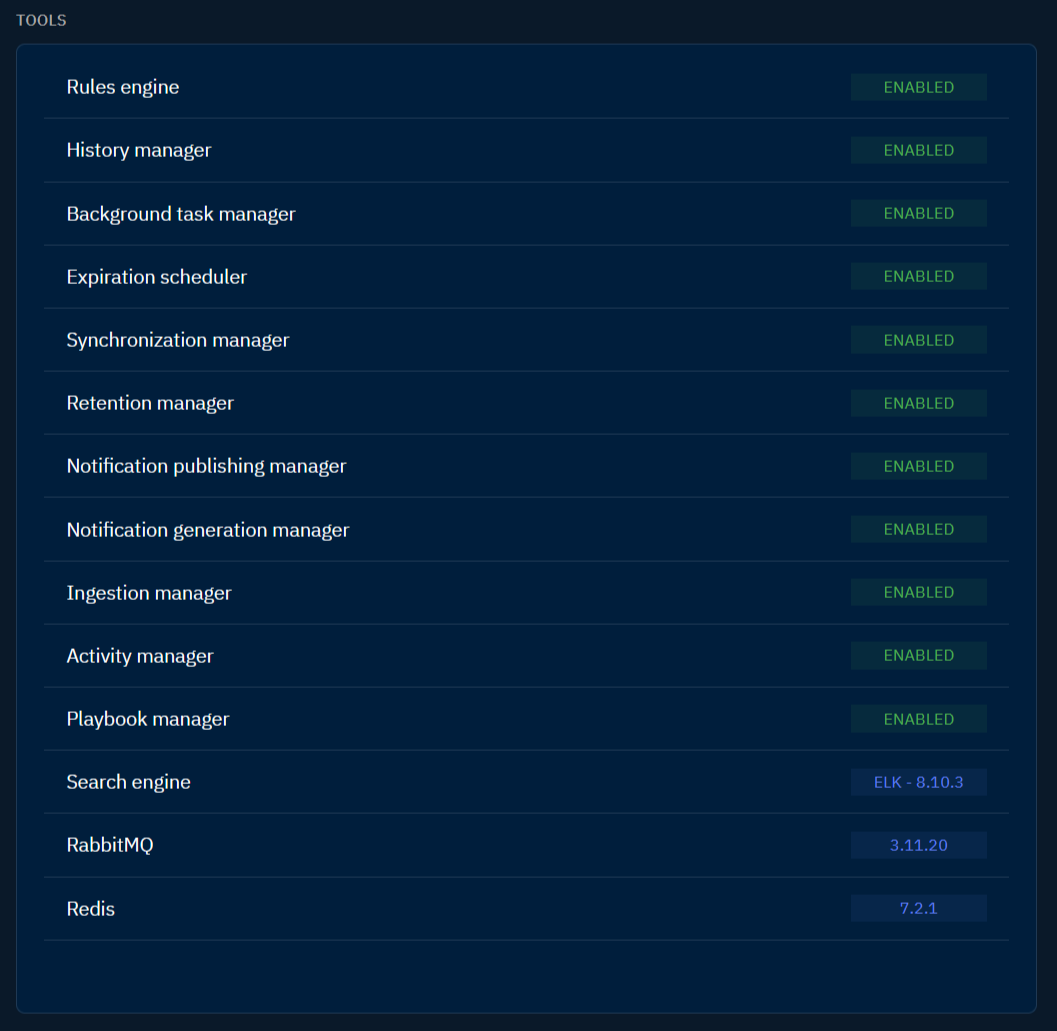
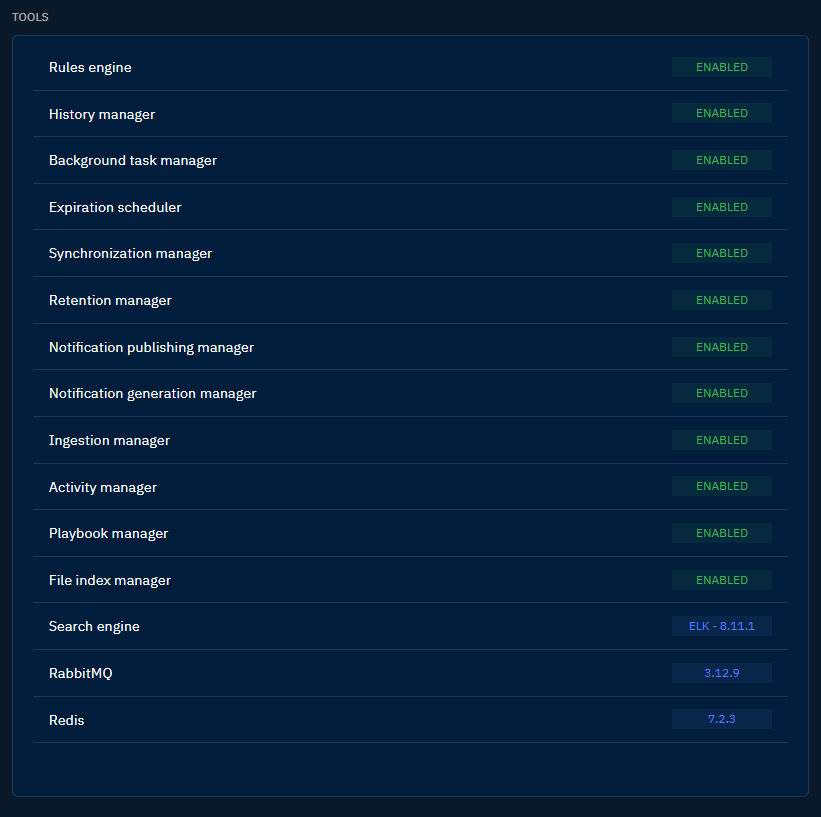
Rereading (#90)
* rereading doc

diff --git a/docs/deployment/configuration.md b/docs/deployment/configuration.md
@@ -178,46 +178,61 @@ Here are the configuration keys, for both containers (environment variables) and
 
 ### Schedules & Engines
 
-| Parameter                          | Environment variable                            | Default value                 | Description                                                                         |
-| :--------------------------------- | :---------------------------------------------- | :---------------------------- | :---------------------------------------------------------------------------------- |
-| rule_engine:enabled                | RULE_ENGINE__ENABLED                            | `true`                        | Enable/disable the rule engine                                                      |
-| rule_engine:lock_key               | RULE_ENGINE__LOCK_KEY                           | rule_engine_lock              | Lock key of the engine in Redis                                                     |
-| -                                  | -                                               | -                             | -                                                                                   |
-| history_manager:enabled            | HISTORY_MANAGER__ENABLED                        | `true`                        | Enable/disable the history manager                                                  |
-| history_manager:lock_key           | HISTORY_MANAGER__LOCK_KEY                       | history_manager_lock          | Lock key for the manager in Redis                                                   |
-| -                                  | -                                               | -                             | -                                                                                   |
-| task_scheduler:enabled             | TASK_SCHEDULER__ENABLED                         | `true`                        | Enable/disable the task scheduler                                                   |
-| task_scheduler:lock_key            | TASK_SCHEDULER__LOCK_KEY                        | task_manager_lock             | Lock key for the scheduler in Redis                                                 |
-| task_scheduler:interval            | TASK_SCHEDULER__INTERVAL                        | 10000                         | Interval to check new task to do (in ms)                                            |
-| -                                  | -                                               | -                             | -                                                                                   |
-| sync_manager:enabled               | SYNC_MANAGER__ENABLED                           | `true`                        | Enable/disable the sync manager                                                     |
-| sync_manager:lock_key              | SYNC_MANAGER__LOCK_KEY                          | sync_manager_lock             | Lock key for the manager in Redis                                                   |
-| sync_manager:interval              | SYNC_MANAGER__INTERVAL                          | 10000                         | Interval to check new sync feeds to consume (in ms)                                 |
-| -                                  | -                                               | -                             | -                                                                                   |
-| expiration_scheduler:enabled       | EXPIRATION_SCHEDULER__ENABLED                   | `true`                        | Enable/disable the scheduler                                                        |
-| expiration_scheduler:lock_key      | EXPIRATION_SCHEDULER__LOCK_KEY                  | expired_manager_lock          | Lock key for the scheduler in Redis                                                 |
-| expiration_scheduler:interval      | EXPIRATION_SCHEDULER__INTERVAL                  | 300000                        | Interval to check expired indicators (in ms)                                        |
-| -                                  | -                                               | -                             | -                                                                                   |
-| retention_manager:enabled          | RETENTION_MANAGER__ENABLED                      | `true`                        | Enable/disable the retention manager                                                |
-| retention_manager:lock_key         | RETENTION_MANAGER__LOCK_KEY                     | retention_manager_lock        | Lock key for the manager in Redis                                                   |
-| retention_manager:interval         | RETENTION_MANAGER__INTERVAL                     | 60000                         | Interval to check items to be deleted (in ms)                                       |
-| -                                  | -                                               | -                             | -                                                                                   |
-| notification_manager:enabled       | NOTIFICATION_MANAGER__ENABLED                   | `true`                        | Enable/disable the notification manager                                             |
-| notification_manager:lock_key      | NOTIFICATION_MANAGER__LOCK_KEY                  | notification_manager_lock     | Lock key for the manager in Redis                                                   |
-| notification_manager:interval      | NOTIFICATION_MANAGER__INTERVAL                  | 10000                         | Interval to push notifications                                                      |
-| -                                  | -                                               | -                             | -                                                                                   |
-| publisher_manager:enabled          | PUBLISHER_MANAGER__ENABLED                      | `true`                        | Enable/disable the publisher manager                                                |
-| publisher_manager:lock_key         | PUBLISHER_MANAGER__LOCK_KEY                     | publisher_manager_lock        | Lock key for the manager in Redis                                                   |
-| publisher_manager:interval         | PUBLISHER_MANAGER__INTERVAL                     | 10000                         | Interval to send notifications / digests (in ms)                                    |
-| -                                  | -                                               | -                             | -                                                                                   |
-| ingestion_manager:enabled          | INGESTION_MANAGER__ENABLED                      | `true`                        | Enable/disable the ingestion manager                                                |
-| ingestion_manager:lock_key         | INGESTION_MANAGER__LOCK_KEY                     | ingestion_manager_lock        | Lock key for the manager in Redis                                                   |
-| ingestion_manager:interval         | INGESTION_MANAGER__INTERVAL                     | 300000                        | Interval to check for new data in remote feeds                                      |
-| -                                  | -                                               | -                             | -                                                                                   |
-| playbook_manager:enabled           | PLAYBOOK_MANAGER__ENABLED                       | `true`                        | Enable/disable the playbook manager                                                 |
-| playbook_manager:lock_key          | PLAYBOOK_MANAGER__LOCK_KEY                      | publisher_manager_lock        | Lock key for the manager in Redis                                                   |
-| playbook_manager:interval          | PLAYBOOK_MANAGER__INTERVAL                      | 60000                         | Interval to check new playbooks                                                     |
-
+| Parameter                                            | Environment variable                         | Default value                    | Description                                         |
+|:-----------------------------------------------------|:---------------------------------------------|:---------------------------------|:----------------------------------------------------|
+| rule_engine:enabled                                  | RULE_ENGINE__ENABLED                         | `true`                           | Enable/disable the rule engine                      |
+| rule_engine:lock_key                                 | RULE_ENGINE__LOCK_KEY                        | rule_engine_lock                 | Lock key of the engine in Redis                     |
+| -                                                    | -                                            | -                                | -                                                   |
+| history_manager:enabled                              | HISTORY_MANAGER__ENABLED                     | `true`                           | Enable/disable the history manager                  |
+| history_manager:lock_key                             | HISTORY_MANAGER__LOCK_KEY                    | history_manager_lock             | Lock key for the manager in Redis                   |
+| -                                                    | -                                            | -                                | -                                                   |
+| task_scheduler:enabled                               | TASK_SCHEDULER__ENABLED                      | `true`                           | Enable/disable the task scheduler                   |
+| task_scheduler:lock_key                              | TASK_SCHEDULER__LOCK_KEY                     | task_manager_lock                | Lock key for the scheduler in Redis                 |
+| task_scheduler:interval                              | TASK_SCHEDULER__INTERVAL                     | 10000                            | Interval to check new task to do (in ms)            |
+| -                                                    | -                                            | -                                | -                                                   |
+| sync_manager:enabled                                 | SYNC_MANAGER__ENABLED                        | `true`                           | Enable/disable the sync manager                     |
+| sync_manager:lock_key                                | SYNC_MANAGER__LOCK_KEY                       | sync_manager_lock                | Lock key for the manager in Redis                   |
+| sync_manager:interval                                | SYNC_MANAGER__INTERVAL                       | 10000                            | Interval to check new sync feeds to consume (in ms) |
+| -                                                    | -                                            | -                                | -                                                   |
+| expiration_scheduler:enabled                         | EXPIRATION_SCHEDULER__ENABLED                | `true`                           | Enable/disable the scheduler                        |
+| expiration_scheduler:lock_key                        | EXPIRATION_SCHEDULER__LOCK_KEY               | expired_manager_lock             | Lock key for the scheduler in Redis                 |
+| expiration_scheduler:interval                        | EXPIRATION_SCHEDULER__INTERVAL               | 300000                           | Interval to check expired indicators (in ms)        |
+| -                                                    | -                                            | -                                | -                                                   |
+| retention_manager:enabled                            | RETENTION_MANAGER__ENABLED                   | `true`                           | Enable/disable the retention manager                |
+| retention_manager:lock_key                           | RETENTION_MANAGER__LOCK_KEY                  | retention_manager_lock           | Lock key for the manager in Redis                   |
+| retention_manager:interval                           | RETENTION_MANAGER__INTERVAL                  | 60000                            | Interval to check items to be deleted (in ms)       |
+| -                                                    | -                                            | -                                | -                                                   |
+| notification_manager:enabled                         | NOTIFICATION_MANAGER__ENABLED                | `true`                           | Enable/disable the notification manager             |
+| notification_manager:lock_live_key                   | NOTIFICATION_MANAGER__LOCK_LIVE_KEY          | notification_live_manager_lock   | Lock live key for the manager in Redis              |
+| notification_manager:lock_digest_key                 | NOTIFICATION_MANAGER__LOCK_DIGEST_KEY        | notification_digest_manager_lock | Lock digest key for the manager in Redis            |
+| notification_manager:interval                        | NOTIFICATION_MANAGER__INTERVAL               | 10000                            | Interval to push notifications                      |
+| -                                                    | -                                            | -                                | -                                                   |
+| publisher_manager:enabled                            | PUBLISHER_MANAGER__ENABLED                   | `true`                           | Enable/disable the publisher manager                |
+| publisher_manager:lock_key                           | PUBLISHER_MANAGER__LOCK_KEY                  | publisher_manager_lock           | Lock key for the manager in Redis                   |
+| publisher_manager:interval                           | PUBLISHER_MANAGER__INTERVAL                  | 10000                            | Interval to send notifications / digests (in ms)    |
+| -                                                    | -                                            | -                                | -                                                   |
+| ingestion_manager:enabled                            | INGESTION_MANAGER__ENABLED                   | `true`                           | Enable/disable the ingestion manager                |
+| ingestion_manager:lock_key                           | INGESTION_MANAGER__LOCK_KEY                  | ingestion_manager_lock           | Lock key for the manager in Redis                   |
+| ingestion_manager:interval                           | INGESTION_MANAGER__INTERVAL                  | 300000                           | Interval to check for new data in remote feeds      |
+| -                                                    | -                                            | -                                | -                                                   |
+| playbook_manager:enabled                             | PLAYBOOK_MANAGER__ENABLED                    | `true`                           | Enable/disable the playbook manager                 |
+| playbook_manager:lock_key                            | PLAYBOOK_MANAGER__LOCK_KEY                   | publisher_manager_lock           | Lock key for the manager in Redis                   |
+| playbook_manager:interval                            | PLAYBOOK_MANAGER__INTERVAL                   | 60000                            | Interval to check new playbooks                     |
+| -                                                    | -                                            | -                                | -                                                   |
+| activity_manager:enabled                             | ACTIVITY_MANAGER__ENABLED                    | `true`                           | Enable/disable the activity manager                 |
+| activity_manager:lock_key                            | ACTIVITY_MANAGER__LOCK_KEY                   | activity_manager_lock            | Lock key for the manager in Redis                   |
+| -                                                    | -                                            | -                                | -                                                   |
+| connector_manager:enabled                            | CONNECTOR_MANAGER__ENABLED                   | `true`                           | Enable/disable the connector manager                |
+| connector_manager:lock_key                           | CONNECTOR_MANAGER__LOCK_KEY                  | connector_manager_lock           | Lock key for the manager in Redis                   |
+| connector_manager:works_day_range                    | CONNECTOR_MANAGER__WORKS_DAY_RANGE           | 7                                | Days range before considering the works as too old  |
+| connector_manager:interval                           | CONNECTOR_MANAGER__INTERVAL                  | 10000                            | Interval to check the state of the works            |
+| -                                                    | -                                            | -                                | -                                                   |
+| import_csv_built_in_connector:enabled                | IMPORT_CSV_CONNECTOR__ENABLED                | `true`                           | Enable/disable the csv import connector             |
+| import_csv_built_in_connector:validate_before_import | IMPORT_CSV_CONNECTOR__VALIDATE_BEFORE_IMPORT | `false`                          | Validates the bundle before importing               |
+| -                                                    | -                                            | -                                | -                                                   |
+| file_index_manager:enabled                           | FILE_INDEX_MANAGER__ENABLED                  | `true`                           | Enable/disable the file indexing manager            |
+| file_index_manager:stream_lock_key                   | FILE_INDEX_MANAGER__STREAM_LOCK              | file_index_manager_stream_lock   | Stream lock key for the manager in Redis            |
+| file_index_manager:interval                          | FILE_INDEX_MANAGER__INTERVAL                 | 60000                            | Interval to check for new files                     |
 !!! note "Default file"
     
     It is possible to check all default parameters implemented in the platform in the [`default.json` file](https://github.com/OpenCTI-Platform/opencti/blob/master/opencti-platform/opencti-graphql/config/default.json).

diff --git a/docs/deployment/authentication.md b/docs/deployment/authentication.md
@@ -6,22 +6,22 @@ OpenCTI supports several authentication providers. If you configure multiple str
 
 !!! note "Activation"
 
-    You need to configure/activate only that you really want to propose to your users in term of authentication
+    You need to configure/activate only the strategy that you really want to propose to your users in term of authentication
 
-The product proposes two kind of authentication strategy:
+The product proposes two kinds of authentication strategies:
 
 - Form (asking user for a user/password)
 - Buttons (click with authentication on an external system)
 
 ## Supported Strategies
 
-Under the hood we technically use the strategies provided by [PassportJS](http://www.passportjs.org/). We integrate a subset of the strategies available with passport we if you need more we can theatrically integrate all the passport strategies.
+Under the hood we technically use the strategies provided by [PassportJS](http://www.passportjs.org/). We integrate a subset of the strategies available with passport. If you need more, we can integrate other strategies.
 
 ### Local users (form)
 
-This strategy used the OpenCTI database as user management.
+This strategy uses the OpenCTI database as a user management.
 
-OpenCTI use this strategy as the default but its not the one we recommend for security reason.
+OpenCTI use this strategy as the default but its not the one we recommend for security reasons.
 
 ```json
 "local": {
@@ -108,7 +108,7 @@ For the SAML strategy to work:
 
 !!! note "Certificates"
 
-    Be careful to put the `cert` / `private_key`  key in PEM format. Indeed, a lot of systems generally export the the keys in X509 / PCKS12 formats and so you will need to convert them. 
+    Be careful to put the `cert` / `private_key`  key in PEM format. Indeed, a lot of systems generally export the keys in X509 / PCKS12 formats and so you will need to convert them. 
     Here is an example to extract PEM from PCKS12:
     ```bash
     openssl pkcs12 -in keystore.p12 -out newfile.pem -nodes
@@ -118,7 +118,7 @@ Here is an example of SAML configuration using environment variables:
 
 ```yaml
 - PROVIDERS__SAML__STRATEGY=SamlStrategy 
-- "PROVIDERS__SAML__CONFIG__LABEL=Login with SAML"
+- PROVIDERS__SAML__CONFIG__LABEL="Login with SAML"
 - PROVIDERS__SAML__CONFIG__ISSUER=mydomain
 - PROVIDERS__SAML__CONFIG__ENTRY_POINT=https://auth.mydomain.com/auth/realms/mydomain/protocol/saml
 - PROVIDERS__SAML__CONFIG__SAML_CALLBACK_URL=http://opencti.mydomain.com/auth/saml/callback
@@ -126,7 +126,7 @@ Here is an example of SAML configuration using environment variables:
 - PROVIDERS__SAML__CONFIG__LOGOUT_REMOTE=false
 ```
 
-OpenCTI support mapping SAML Roles/Groups on OpenCTI Groups. Here is an example:
+OpenCTI supports mapping SAML Roles/Groups on OpenCTI Groups. Here is an example:
 
 ```json
 "saml": {
@@ -157,8 +157,8 @@ OpenCTI support mapping SAML Roles/Groups on OpenCTI Groups. Here is an example:
 Here is an example of SAML Groups mapping configuration using environment variables:
 
 ```yaml
-- "PROVIDERS__SAML__CONFIG__GROUPS_MANAGEMENT__GROUP_ATTRIBUTES=[\"Group\"]"
-- "PROVIDERS__SAML__CONFIG__GROUPS_MANAGEMENT__GROUPS_MAPPING=[\"SAML_Group_1:OpenCTI_Group_1\", \"SAML_Group_2:OpenCTI_Group_2\", ...]"
+- PROVIDERS__SAML__CONFIG__GROUPS_MANAGEMENT__GROUP_ATTRIBUTES=[\"Group\"]
+- PROVIDERS__SAML__CONFIG__GROUPS_MANAGEMENT__GROUPS_MAPPING=[\"SAML_Group_1:OpenCTI_Group_1\", \"SAML_Group_2:OpenCTI_Group_2\", ...]
 ```
 
 ### Auth0 (button)
@@ -197,7 +197,7 @@ Here is an example of Auth0 configuration using environment variables:
 
 ### OpenID Connect (button)
 
-This strategy allows to use the [OpenID Connect Protocol](https://openid.net/connect) to handle the authentication and is based on [Node OpenID Client](https://github.com/panva/node-openid-client) that is more powerful than the passport one.
+This strategy allows to use the [OpenID Connect Protocol](https://openid.net/connect) to handle the authentication and is based on [Node OpenID Client](https://github.com/panva/node-openid-client) which is more powerful than the passport one.
 
 ```json
 "oic": {
@@ -218,11 +218,11 @@ Here is an example of OpenID configuration using environment variables:
 
 ```yaml
 - PROVIDERS__OPENID__STRATEGY=OpenIDConnectStrategy 
-- "PROVIDERS__OPENID__CONFIG__LABEL=Login with OpenID"
+- PROVIDERS__OPENID__CONFIG__LABEL="Login with OpenID"
 - PROVIDERS__OPENID__CONFIG__ISSUER=https://auth.mydomain.com/auth/realms/xxxx
 - PROVIDERS__OPENID__CONFIG__CLIENT_ID=XXXXXXXXXXXXXXXXXX
 - PROVIDERS__OPENID__CONFIG__CLIENT_SECRET=XXXXXXXXXXXXXXXXXX
-- "PROVIDERS__OPENID__CONFIG__REDIRECT_URIS=[\"https://opencti.mydomain.com/auth/oic/callback\"]"
+- PROVIDERS__OPENID__CONFIG__REDIRECT_URIS=[\"https://opencti.mydomain.com/auth/oic/callback\"]
 - PROVIDERS__OPENID__CONFIG__LOGOUT_REMOTE=false
 ```
 
@@ -251,22 +251,22 @@ OpenCTI support mapping OpenID Claims on OpenCTI Groups (everything is tied to a
 Here is an example of OpenID Groups mapping configuration using environment variables:
 
 ```yaml
-- "PROVIDERS__OPENID__CONFIG__GROUPS_MANAGEMENT__GROUPS_SCOPE=groups"
-- "PROVIDERS__OPENID__CONFIG__GROUPS_MANAGEMENT__GROUPS_PATH=[\"groups\", \"realm_access.groups\", \"resource_access.account.groups\"]"
-- "PROVIDERS__OPENID__CONFIG__GROUPS_MANAGEMENT__GROUPS_MAPPING=[\"OpenID_Group_1:OpenCTI_Group_1\", \"OpenID_Group_2:OpenCTI_Group_2\", ...]"
+- PROVIDERS__OPENID__CONFIG__GROUPS_MANAGEMENT__GROUPS_SCOPE="groups"
+- PROVIDERS__OPENID__CONFIG__GROUPS_MANAGEMENT__GROUPS_PATH=[\"groups\", \"realm_access.groups\", \"resource_access.account.groups\"]
+- PROVIDERS__OPENID__CONFIG__GROUPS_MANAGEMENT__GROUPS_MAPPING=[\"OpenID_Group_1:OpenCTI_Group_1\", \"OpenID_Group_2:OpenCTI_Group_2\", ...]
 ```
 
 By default, the claims are mapped based on the content of the JWT `access_token`. If you want to map claims which are in other JWT (such as `id_token`), you can define the following environment variables:
 
 ```yaml
-- "PROVIDERS__OPENID__CONFIG__GROUPS_MANAGEMENT__TOKEN_REFERENCE=id_token"
-- "PROVIDERS__OPENID__CONFIG__ORGANISATIONS_MANAGEMENT__TOKEN_REFERENCE=id_token"
+- PROVIDERS__OPENID__CONFIG__GROUPS_MANAGEMENT__TOKEN_REFERENCE="id_token"
+- PROVIDERS__OPENID__CONFIG__ORGANISATIONS_MANAGEMENT__TOKEN_REFERENCE="id_token"
 ```
 
 Alternatively, you can request OpenCTI to use claims from the `userinfo` endpoint instead of a JWT.
 ```yaml
-- "PROVIDERS__OPENID__CONFIG__GROUPS_MANAGEMENT__READ_USERINFO=true"
-- "PROVIDERS__OPENID__CONFIG__ORGANISATIONS_MANAGEMENT__READ_USERINFO=true"
+- PROVIDERS__OPENID__CONFIG__GROUPS_MANAGEMENT__READ_USERINFO=true
+- PROVIDERS__OPENID__CONFIG__ORGANISATIONS_MANAGEMENT__READ_USERINFO=true
 ```
 
 ### Facebook (button)

diff --git a/docs/deployment/integrations.md b/docs/deployment/integrations.md
@@ -6,7 +6,7 @@ OpenCTI supports multiple ways to integrate with other systems which do not have
 
 !!! note "Connectors list"
     
-    If you are looking to the list of OpenCTI connectors or native integration, please check the [OpenCTI Ecosystem](https://filigran.notion.site/OpenCTI-Ecosystem-868329e9fb734fca89692b2ed6087e76).
+    If you are looking for the list of OpenCTI connectors or native integration, please check the [OpenCTI Ecosystem](https://filigran.notion.site/OpenCTI-Ecosystem-868329e9fb734fca89692b2ed6087e76).
 
 ## Native feeds and streams
 
@@ -16,7 +16,7 @@ To ease integrations with other products, OpenCTI has built-in capabilities to d
 
 It is possible to create as many CSV feeds as needed, based on filters and accessible in HTTP. CSV feeds are available in Data > Data sharing > Feeds (CSV).
 
-When creating a CSV feed, you need to select one or multiple types of entity to make available. For all columns available in the CSV, you've to select which field will be used for each type of entity:
+When creating a CSV feed, you need to select one or multiple types of entities to make available. Then, you must assign a field (of an entity type) to each column in the CSV:
 
 ![CSV Feeds](assets/csv.png)
 
@@ -26,9 +26,9 @@ When creating a CSV feed, you need to select one or multiple types of entity to 
 
 ### TAXII collections
 
-Most of the moden cybersecurity systems such as SIEMs, EDRs, XDRs and even firewalls supports the [TAXII protocol](https://oasis-open.github.io/cti-documentation/taxii/intro.html) which is basically a paginated HTTP STIX feed. OpenCTI implements a [TAXII 2.1](https://docs.oasis-open.org/cti/taxii/v2.1/os/taxii-v2.1-os.html) server with the ability to create as many TAXII collections as needed in Data > Data sharing > TAXII Collections?
+Most of the modern cybersecurity systems such as SIEMs, EDRs, XDRs and even firewalls supports the [TAXII protocol](https://oasis-open.github.io/cti-documentation/taxii/intro.html) which is basically a paginated HTTP STIX feed. OpenCTI implements a [TAXII 2.1](https://docs.oasis-open.org/cti/taxii/v2.1/os/taxii-v2.1-os.html) server with the ability to create as many TAXII collections as needed in Data > Data sharing > TAXII Collections.
 
-TAXII collections are a sub-selection of the knowledge available in the platform and relie on filters. For instance, it is possible to create TAXII collections for pieces of malware with a given label, for indicators with a score greater than *n*, etc.
+TAXII collections are a sub-selection of the knowledge available in the platform and rely on filters. For instance, it is possible to create TAXII collections for pieces of malware with a given label, for indicators with a score greater than *n*, etc.
 
 ![TAXII Feeds](assets/taxii.png)
 
@@ -45,7 +45,7 @@ Live streams are available in Data > Data sharing > Live streams. As TAXII colle
 
 ![Streams](assets/streams.png)
 
-Streams implement the [HTTP SSE (Server-sent events)](https://en.wikipedia.org/wiki/Server-sent_events) protocol and give applications to consume a real time pure STIX 2.1 stream. Stream connectors in the [OpenCTI Ecosystem](https://filigran.notion.site/OpenCTI-Ecosystem-868329e9fb734fca89692b2ed6087e76) are using live streams to consume data and *do* something such as create / update / delete information in SIEMs, XDRs, etc.
+Streams implement the [HTTP SSE (Server-sent events)](https://en.wikipedia.org/wiki/Server-sent_events) protocol and give applications the possibility to consume a real time pure STIX 2.1 stream. Stream connectors in the [OpenCTI Ecosystem](https://filigran.notion.site/OpenCTI-Ecosystem-868329e9fb734fca89692b2ed6087e76) are using live streams to consume data and *do* something such as create / update / delete information in SIEMs, XDRs, etc.
 
 ### Authentication
 

diff --git a/docs/deployment/connectors.md b/docs/deployment/connectors.md
@@ -6,7 +6,7 @@
     
     You are looking for the available connectors? The list is in the [OpenCTI Ecosystem](https://filigran.notion.site/OpenCTI-Ecosystem-868329e9fb734fca89692b2ed6087e76).
 
-Connectors are the cornerstone of the OpenCTI platform and allow organizations to easily ingest, enrich or export data in the platform. According to their functionality and use case, they are categorized in following classes.
+Connectors are the cornerstone of the OpenCTI platform and allow organizations to easily ingest, enrich or export data in the platform. According to their functionality and use case, they are categorized in the following classes.
 
 ![Connectors](assets/connectors.png)
 
@@ -33,13 +33,13 @@ Information stored in OpenCTI can be extracted into different file formats like 
 
 ## Connector configuration
 
-All connectors have to be able to access to the OpenCTI API. To allow this connection, they have 2 mandatory configuration parameters, the `OPENCTI_URL` and the `OPENCTI_TOKEN`. In addition of these 2 parameters, connectors have other mandatory parameters that need to be set in order to get them work.
+All connectors have to be able to access the OpenCTI API. To allow this connection, they have 2 mandatory configuration parameters, the `OPENCTI_URL` and the `OPENCTI_TOKEN`. In addition to these 2 parameters, connectors have other mandatory parameters that need to be set in order to get them work.
 
 !!! warning "Connectors tokens"
     
     Be careful, we strongly recommend to use a dedicated token for each connector running in the platform. So you have to [**create a specific user for each of them**](../administration/users.md).
 
-    Also, if all connectors users can run in with a user belonging to the `Connectors` group (with the `Connector` role), the `Internal Export Files` should be run with a user who is Administrator (with bypass capability) because they imperstonate the user requesting the export to avoid data leak.
+    Also, if all connectors users can run in with a user belonging to the `Connectors` group (with the `Connector` role), the `Internal Export Files` should be run with a user who is Administrator (with bypass capability) because they impersonate the user requesting the export to avoid data leak.
 
     | Type                 | Required role       | Used permissions                                                                                  
     | :------------------- | :------------------ | :----------------------------------------------------- |

diff --git a/docs/administration/audit/overview.md b/docs/administration/audit/overview.md
@@ -13,11 +13,11 @@ Enabling activity helps your security, auditing, and compliance entities monitor
 
 ## Categories
 
-The activity group 3 different concepts that need to be explains.
+The activity groups 3 different concepts that need to be explained.
 
 ### Basic knowledge
 
-The basic knowledge refers to all stix data knowledge inside OpenCTI. Every create/update/delete actions on that knowledge is accessible through the history.
+The basic knowledge refers to all STIX data knowledge inside OpenCTI. Every create/update/delete actions on that knowledge is accessible through the history.
 That basic activity is handled by the history manager and can be also found directly on each entity.
 
 ### Extended knowledge
@@ -28,7 +28,7 @@ As this kind of tracking is expensive, the tracking will only be done for specif
 ### Audit knowledge
 
 Audit is focusing on user administration or security actions.
-Audit will produces **console/logs** files along with user interface elements.
+Audit will produce **console/logs** files along with user interface elements.
 
 ```json
 {
@@ -50,7 +50,7 @@ Audit will produces **console/logs** files along with user interface elements.
 
 ## Architecture
 
-OpenCTI use different mechanisms to be able to publish actions (audit) or data modification (history)
+OpenCTI uses different mechanisms to be able to publish actions (audit) or data modification (history)
 
 <iframe style="border: 1px solid rgba(0, 0, 0, 0.1);" width="800" height="450" src="https://www.figma.com/embed?embed_host=share&url=https://www.figma.com/file/65JHbbWWKftqLGrQJ0Xhml/Notifications-architecture?type=whiteboard&node-id=0%3A1&t=Q9GJ4psB6cAdQ3uR-1" allowfullscreen></iframe>
 

diff --git a/docs/administration/enterprise.md b/docs/administration/enterprise.md
@@ -10,7 +10,7 @@ The OpenCTI Enterprise Edition is licensed under the OpenCTI
 Non-Commercial License (the “Non-Commercial License”).
 The source files in this repository have a header indicating which license they are under. If no such header is provided, this means that the file is belonging to the Community Edition under the Apache License, Version 2.0.
 
-We write a complete article to explain the enterprise edition, [feel free to read it to have more information](https://blog.filigran.io/progressive-rollout-of-the-opencti-enterprise-edition-why-what-and-how-1189e9d5603c)
+We wrote a complete article to explain the enterprise edition, [feel free to read it to have more information](https://blog.filigran.io/progressive-rollout-of-the-opencti-enterprise-edition-why-what-and-how-1189e9d5603c)
 
 ## EE Activation
 Enterprise edition is easy to activate. You need to go the the platform settings and click on the Activate button.
@@ -44,7 +44,7 @@ Organizations segregation is a way to segregate your data considering the organi
 
 ## More to come
 
-More feature will be available in OpenCTI in the future. Features like:
+More features will be available in OpenCTI in the future. Features like:
 
 - Full text indexing of documents
 - Generative AI for correlation and content generation.

diff --git a/docs/deployment/resources.md b/docs/deployment/resources.md
@@ -2,7 +2,7 @@
 
 ## Introduction
 
-OpenCTI is an open and modular platform. A lot of [connectors, plugins and clients](https://filigran.notion.site/OpenCTI-Ecosystem-868329e9fb734fca89692b2ed6087e76)  are created by [Filigran](https://www.filigran.io) and community. You can find here other resources available to complete your OpenCTI journey.
+OpenCTI is an open and modular platform. A lot of [connectors, plugins and clients](https://filigran.notion.site/OpenCTI-Ecosystem-868329e9fb734fca89692b2ed6087e76)  are created by [Filigran](https://www.filigran.io) and by the community. You can find here other resources available to complete your OpenCTI journey.
 
 ## Videos & training
 
